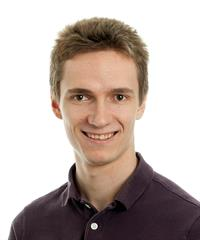
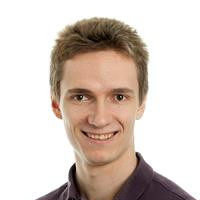
More people, cleanup

diff --git a/_pages/people.md b/_pages/people.md
@@ -11,8 +11,6 @@ person_status:
     text: Current Lab Members
   - id: alumni
     text: Alumni
-  - id: visitor
-    text: Visiting Scientists
 
 people:
 
@@ -63,11 +61,18 @@ people:
 
   # Alumni
 
+  - name: Alex Hillsley
+    title: Postdoctoral Researcher
+    image: people/alex.jpg
+    status: alumni
+    date_joined: 2022-04-04
+    date_left: 2024-08-14
   - name: Alicia Lu
     title: Janelia Undergraduate Scholar
     image: people/alicia.jpg
     status: alumni
     date_joined: 2021-06-01
+    date_left: 2022-08-19
   - name: Benjamin Gallusser
     title: Master Student
     image: people/ben.jpg
@@ -78,7 +83,7 @@ people:
     title: Highschool Intern
     image: people/esha.jpg
     email: eshakarlekar@berkeley.edu
-    github_username: https://github.com/ekarlekar
+    github_username: ekarlekar
     website: https://esha.karlekar.com/
     status: alumni
     date_joined: 2022-03-14
@@ -101,6 +106,19 @@ people:
     status: alumni
     date_joined: 2018-06-01
     date_left: 2022-10-31
+  - name: Scott Lauritzen
+    title: Research Specialist
+    image: people/scott.jpg
+    status: alumni
+    date_joined: 2018-09-02
+    date_left: 2020-02-29
+  - name: Will Patton
+    title: Software Engineer
+    image: people/will.jpg
+    github_username: pattonw
+    status: alumni
+    date_joined: 2019-12-10
+    date_left: 2023-03-29
   - name: Yash Mehta
     title: Software Engineer
     image: people/yash.png
@@ -114,7 +132,13 @@ people:
   - name: Jeff Rhoades
     title: Visiting Scientist
     image: people/jeff.jpg
-    status: visitor
+    status: alumni
     date_joined: 2022-03-01
     date_left: 2023-04-14
+  - name: Steffen Wolf
+    title: Visiting Scientist
+    image: people/steffen.jpg
+    status: alumni
+    date_joined: 2019-09-01
+    date_left: 2023-06-15
 ---
